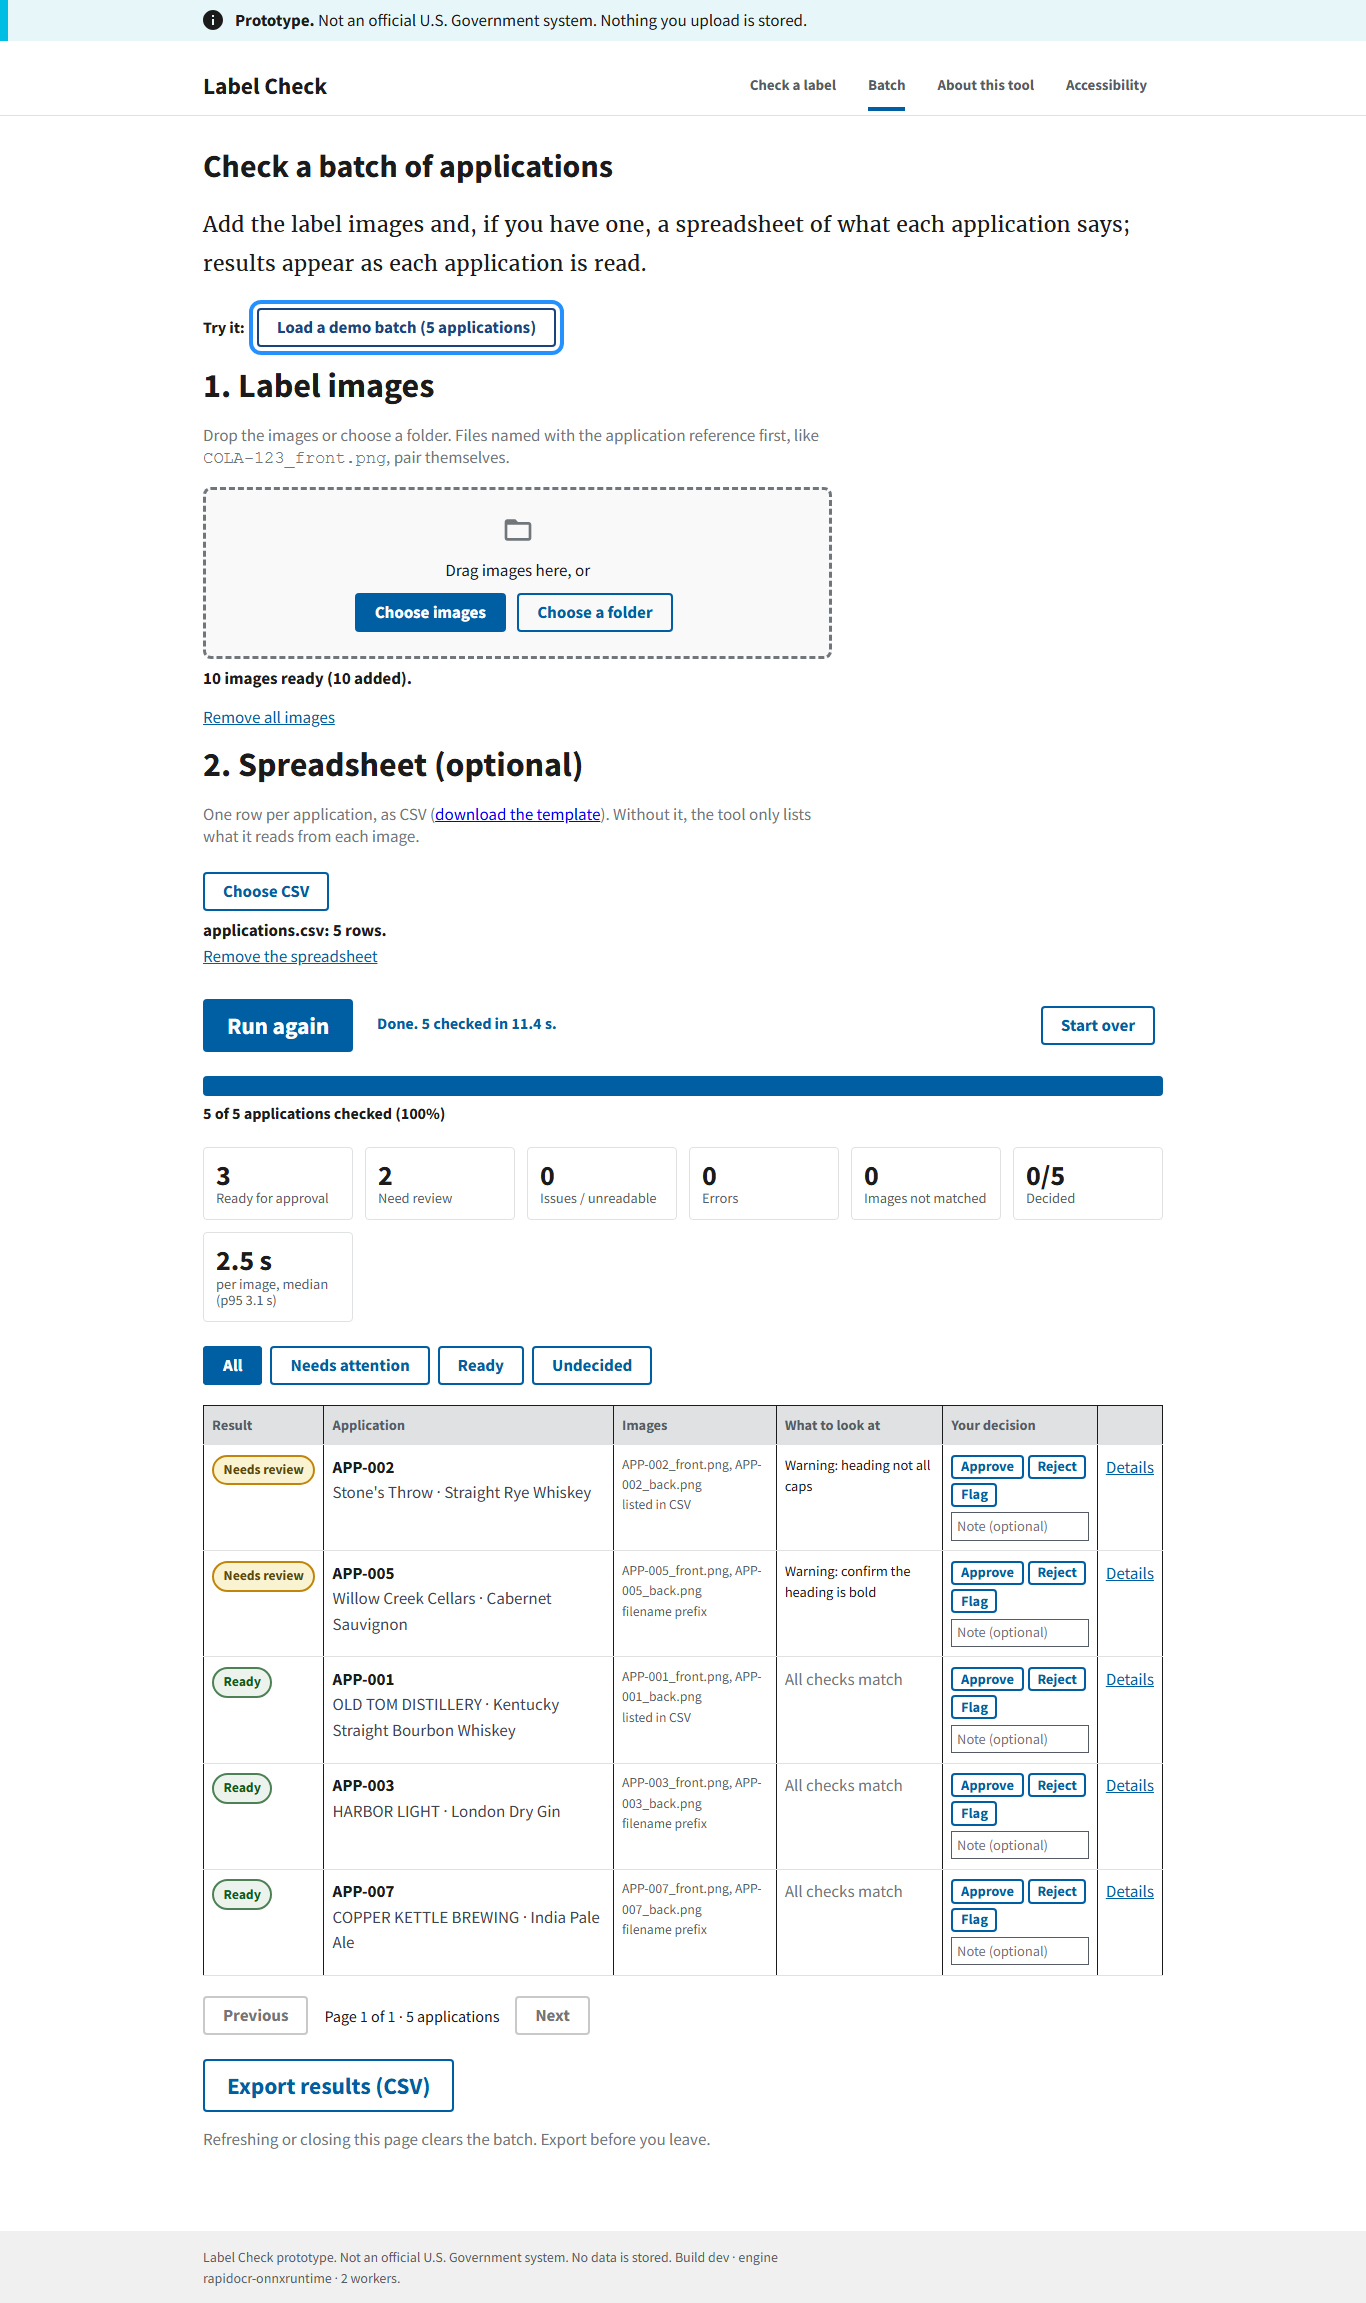
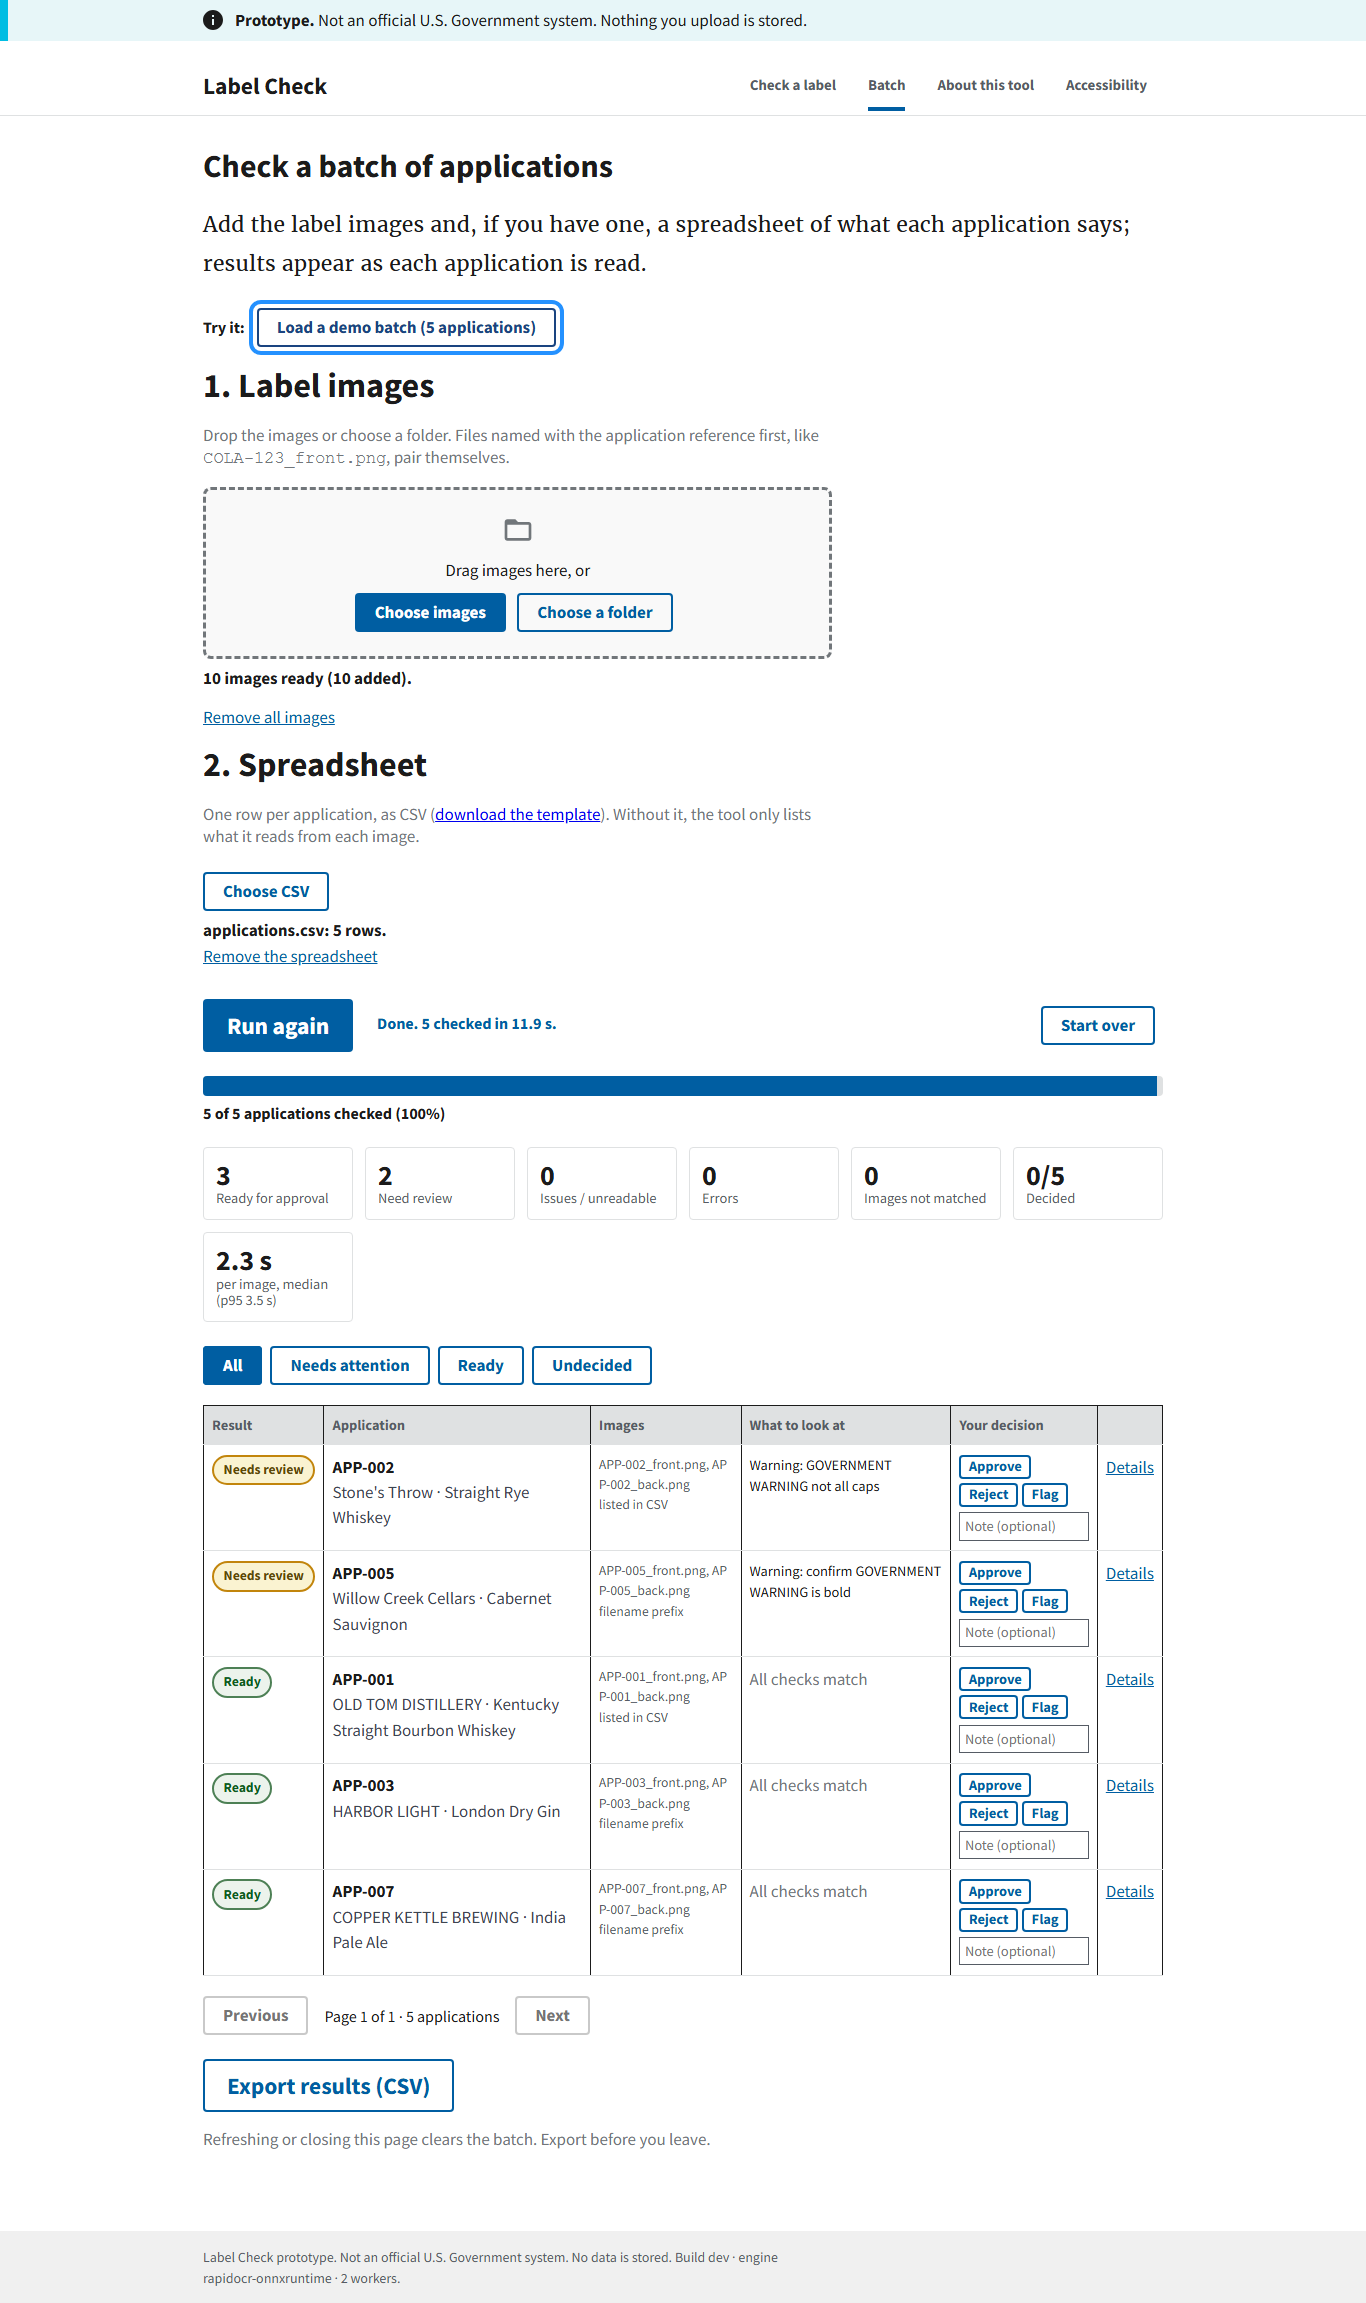
The result text names GOVERNMENT WARNING, as the brief does, instead of "the heading"; the batch spreadsheet step is no longer labelled optional
"Warning: GOVERNMENT WARNING not all caps", "Warning: confirm GOVERNMENT WARNING is bold" and the
notes under the warning card now use the brief's own words for the two format checks. The batch
screen's second step reads "2. Spreadsheet"; the hint still says what happens without one.

Claude-Session: https://claude.ai/code/session_01RRGyuuzyzYZ1LFcAnV9iPA

Changed region(s): [[0.4305, 0.6166, 0.7994, 0.8632], [0.3075, 0.3083, 0.4305, 0.3391]]

diff --git a/app/static/render.js b/app/static/render.js
@@ -263,8 +263,8 @@ export function issueTexts(result) {
   const probs = result.checks.filter((c) => c.status !== "match" && c.status !== "info" && c.status !== "not_checked").map((c) => `${c.label}: ${c.status.replace("_", " ")}`);
   const w = result.warning;
   if (w.assessment === "not_required") { /* under 0.5% alcohol: no statement required */ }
-  else if (!w.present) probs.push("Warning: missing"); else if (!w.exact) probs.push("Warning: wording not exact"); else if (w.anchor_caps !== "match") probs.push("Warning: heading not all caps");
-  if (w.present && w.anchor_bold === "needs_review") probs.push(w.type_weight_reading === "same" ? "Warning: heading may not be bold" : "Warning: confirm the heading is bold");
+  else if (!w.present) probs.push("Warning: missing"); else if (!w.exact) probs.push("Warning: wording not exact"); else if (w.anchor_caps !== "match") probs.push("Warning: GOVERNMENT WARNING not all caps");
+  if (w.present && w.anchor_bold === "needs_review") probs.push(w.type_weight_reading === "same" ? "Warning: GOVERNMENT WARNING may not be bold" : "Warning: confirm GOVERNMENT WARNING is bold");
   return probs;
 }
 

diff --git a/app/static/index.html b/app/static/index.html
@@ -196,7 +196,7 @@
           </div>
           <div class="tablet:grid-col-8">
             <fieldset class="usa-fieldset">
-              <legend class="usa-legend usa-legend--large">2. Spreadsheet (optional)</legend>
+              <legend class="usa-legend usa-legend--large">2. Spreadsheet</legend>
               <p class="usa-hint">One row per application, as CSV (<a href="/api/v1/csv/template" download>download the template</a>). Without it, the tool only lists what it reads from each image.</p>
               <label class="usa-button usa-button--outline margin-top-1" for="batch-csv">Choose CSV</label>
               <input id="batch-csv" type="file" accept=".csv,text/csv" class="usa-sr-only">

diff --git a/app/pipeline/warning.py b/app/pipeline/warning.py
@@ -310,9 +310,9 @@ def type_weight_status(
     if tw.ratio is None:
         reason = {
             "too small": "the print is too small or too faint at the working size",
-            "no heading line": "the heading was not read as its own words",
+            "no heading line": "GOVERNMENT WARNING was not read as its own words",
             "size differs": (
-                "the heading is set in a different size from the statement, and a larger size has thicker "
+                "GOVERNMENT WARNING is set in a different size from the statement, and a larger size has thicker "
                 "strokes at the same weight"
             ),
         }.get(tw.basis, tw.basis)
@@ -321,7 +321,7 @@ def type_weight_status(
         return (
             Status.needs_review,
             "same",
-            f"The heading and {tw.basis} measure the same weight, so the heading does not stand out as bold type. "
+            f"GOVERNMENT WARNING and {tw.basis} measure the same weight, so it does not stand out as bold type. "
             f"{confirm}",
             tw,
         )
@@ -329,7 +329,7 @@ def type_weight_status(
         return (
             Status.needs_review,
             "boundary_uncertain",
-            "The heading measures heavier than the rest of its line, but the boundary between them could not be "
+            "GOVERNMENT WARNING measures heavier than the rest of its line, but the boundary between them could not be "
             f"found in the print, so it is not counted. {confirm}",
             TypeWeight(tw.ratio, "boundary uncertain", tw.split),
         )
@@ -337,13 +337,13 @@ def type_weight_status(
         return (
             Status.match,
             "heavier",
-            f"The heading is set about {tw.ratio:.1f} times heavier than {tw.basis}: bold heading {rule}.",
+            f"GOVERNMENT WARNING is set about {tw.ratio:.1f} times heavier than {tw.basis}: bold type {rule}.",
             tw,
         )
     return (
         Status.needs_review,
         "inconclusive",
-        f"Bold type could not be judged with confidence from this image: the heading measures only slightly "
+        f"Bold type could not be judged with confidence from this image: GOVERNMENT WARNING measures only slightly "
         f"heavier than {tw.basis}. {confirm}",
         tw,
     )

diff --git a/tests/unit/test_warning.py b/tests/unit/test_warning.py
@@ -263,7 +263,7 @@ def test_type_weight_bold_heading_over_regular_body_matches():
     ratio and the basis in the report."""
     r = report(_weighted(0.145, 0.118, 0.118))
     assert r.exact and r.anchor_bold is Status.match and r.type_weight_reading == "heavier"
-    assert "heavier" in r.notes[2] and "bold heading" in r.notes[2]
+    assert "heavier" in r.notes[2] and "bold type" in r.notes[2]
     assert r.type_weight_ratio == 1.229 and r.type_weight_basis == "the rest of its line (gap)"
 
 
